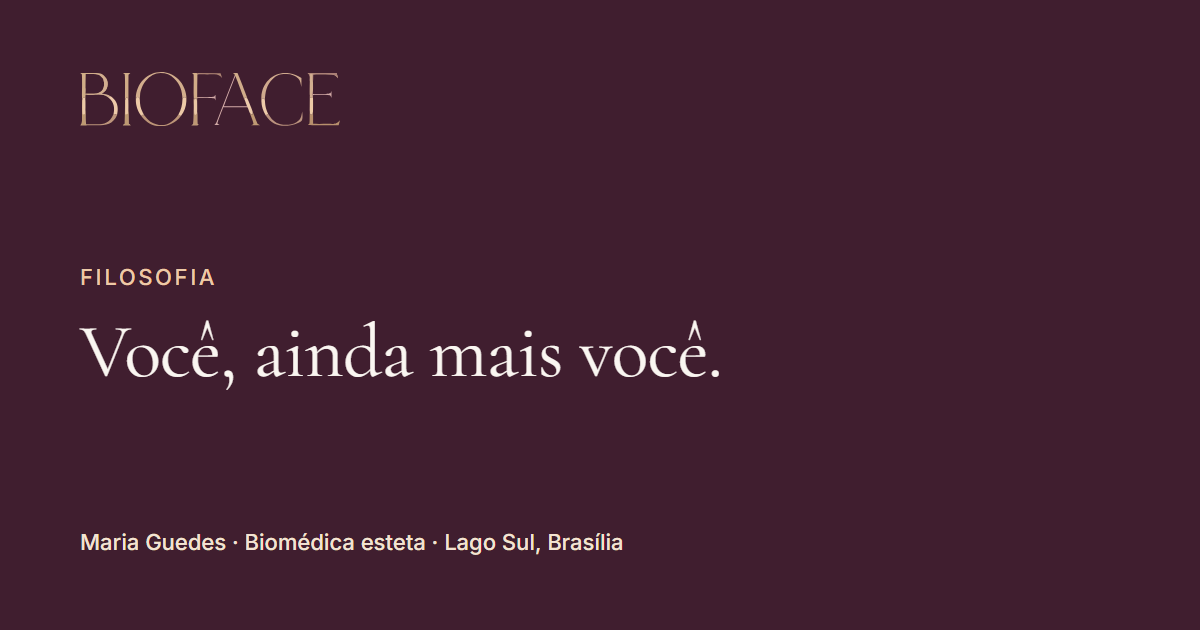
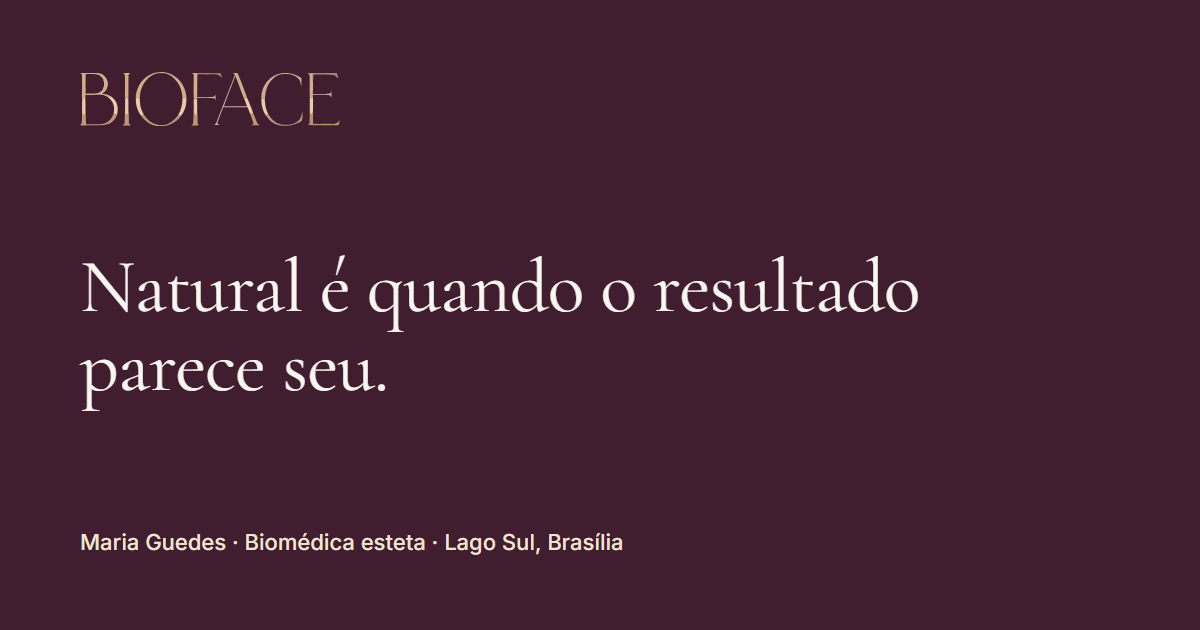
feat(hero): frase-manifesto, hierarquia em serifa e aura de cor
Referência analisada: força vinha da frase-crença como título, de três
degraus claros de hierarquia em serifa e de uma aura de cor atrás.

- título: "Natural é quando o resultado parece seu." (ataca o medo
  central de ficar artificial), com ênfase em itálico
- subtítulo em Cormorant Medium (degrau do meio, antes era Inter
  pequena), até 2 linhas também no celular (24px, mínimo da fonte)
- texto centralizado na coluna e no meio da tela; aura dourada e rosé
  desfocada atrás; CTA com brilho dourado
- contraste medido nos pixels: pior caso 9,6:1 em 6 tamanhos de tela
- botões sem quebra de linha e mais compactos no celular; CTA do header
  sem a seta no celular
- imagem OG da Home regerada com o novo título

Changed region(s): [[0.0617, 0.3921, 0.7708, 0.6635]]

diff --git a/src/data/textos.ts b/src/data/textos.ts
@@ -24,10 +24,9 @@ export const home = {
     description: `Estética facial com resultados naturais. ${site.responsavel.nome}, biomédica esteta há ${site.anosAtuacao} anos no Lago Sul, Brasília. Agende sua avaliação pelo WhatsApp.`,
   },
   hero: {
-    // TODO(validar-cliente): promessa central do h1.
-    titulo: 'Você,',
-    destaque: 'ainda mais você.',
-    descricao: `Estética facial com ${site.responsavel.nome}, ${site.responsavel.titulo.toLowerCase()} há ${site.anosAtuacao} anos no ${site.endereco.bairro}.`,
+    // TODO(validar-cliente): frase-manifesto do h1 (o medo central é ficar artificial).
+    titulo: 'Natural é quando o resultado *parece seu*.',
+    descricao: `Estética facial com ${site.responsavel.nome}, biomédica há ${site.anosAtuacao} anos no ${site.endereco.bairro}.`,
     // Imagem fictícia da Maria para a prévia (confirmado pela equipe em 2026-11-13).
     // TODO(validar-cliente): jaleco com "Dra." e "Medicina Estética" não cabe para biomédica.
     alt: `${site.responsavel.nome}, ${site.responsavel.titulo.toLowerCase()}, de jaleco, sorrindo.`,

diff --git a/src/styles/tokens.css b/src/styles/tokens.css
@@ -42,6 +42,9 @@
   --color-border-default: var(--wine-500);
   --color-focus-ring: var(--wine-900);
   --color-accent-decorative: var(--gold-400);
+  /* Aura do hero e brilho do CTA: só decoração, nunca fundo de texto sozinho. */
+  --color-aura-1: var(--gold-200);
+  --color-aura-2: var(--wine-500);
 
   /* ---------- Tipografia ---------- */
   --font-display: 'Cormorant Garamond', 'Cormorant Garamond Fallback', 'Times New Roman', serif;

diff --git a/PENDENCIAS.md b/PENDENCIAS.md
@@ -105,9 +105,9 @@ Total: 121 marcadores.
 - [ ] coordenadas. [src/data/site.ts:47](src/data/site.ts#L47)
 - [ ] número de agendamento, só dígitos, com DDI 55. [src/data/site.ts:49](src/data/site.ts#L49)
 - [ ] horários de atendimento. [src/data/site.ts:50](src/data/site.ts#L50)
-- [ ] em 2 ou 3 frases, como a Maria define um resultado natural no método dela. [src/data/textos.ts:38](src/data/textos.ts#L38)
-- [ ] 3 fotos verticais (3:4) para a filosofia: detalhe de procedimento, mãos, espaço. [src/data/textos.ts:39](src/data/textos.ts#L39)
-- [ ] trajetória resumida da Maria em 2 ou 3 frases. [src/data/textos.ts:69](src/data/textos.ts#L69)
+- [ ] em 2 ou 3 frases, como a Maria define um resultado natural no método dela. [src/data/textos.ts:37](src/data/textos.ts#L37)
+- [ ] 3 fotos verticais (3:4) para a filosofia: detalhe de procedimento, mãos, espaço. [src/data/textos.ts:38](src/data/textos.ts#L38)
+- [ ] trajetória resumida da Maria em 2 ou 3 frases. [src/data/textos.ts:68](src/data/textos.ts#L68)
 - [ ] trocar pelo domínio definitivo quando a cliente contratar. [astro.config.mjs:5](astro.config.mjs#L5)
 
 ## Decisões para validar com a cliente (`TODO(validar-cliente)`)
@@ -134,9 +134,9 @@ Total: 121 marcadores.
   - [src/content/resultados/par-4.json:2](src/content/resultados/par-4.json#L2)
   - [src/content/resultados/par-5.json:2](src/content/resultados/par-5.json#L2)
 - [ ] o agrupamento é proposta. Validar com a Maria antes de publicar. [src/data/categorias.ts:5](src/data/categorias.ts#L5)
-- [ ] promessa central do h1. [src/data/textos.ts:27](src/data/textos.ts#L27)
-- [ ] jaleco com "Dra." e "Medicina Estética" não cabe para biomédica. [src/data/textos.ts:32](src/data/textos.ts#L32)
-- [ ] confirmar o fluxo de atendimento. [src/data/textos.ts:50](src/data/textos.ts#L50)
+- [ ] frase-manifesto do h1 (o medo central é ficar artificial). [src/data/textos.ts:27](src/data/textos.ts#L27)
+- [ ] jaleco com "Dra." e "Medicina Estética" não cabe para biomédica. [src/data/textos.ts:31](src/data/textos.ts#L31)
+- [ ] confirmar o fluxo de atendimento. [src/data/textos.ts:49](src/data/textos.ts#L49)
 - [ ] escolher a ferramenta. Se usar cookies, entra banner de consentimento (LGPD). [src/lib/analytics.ts:3](src/lib/analytics.ts#L3)
 - [ ] revisão jurídica e dados do controlador. [src/pages/privacidade.astro:5](src/pages/privacidade.astro#L5)
 - [ ] apresentar à cliente a nova paleta (a partir do logo) e a Cormorant Garamond. [src/styles/tokens.css:4](src/styles/tokens.css#L4)
